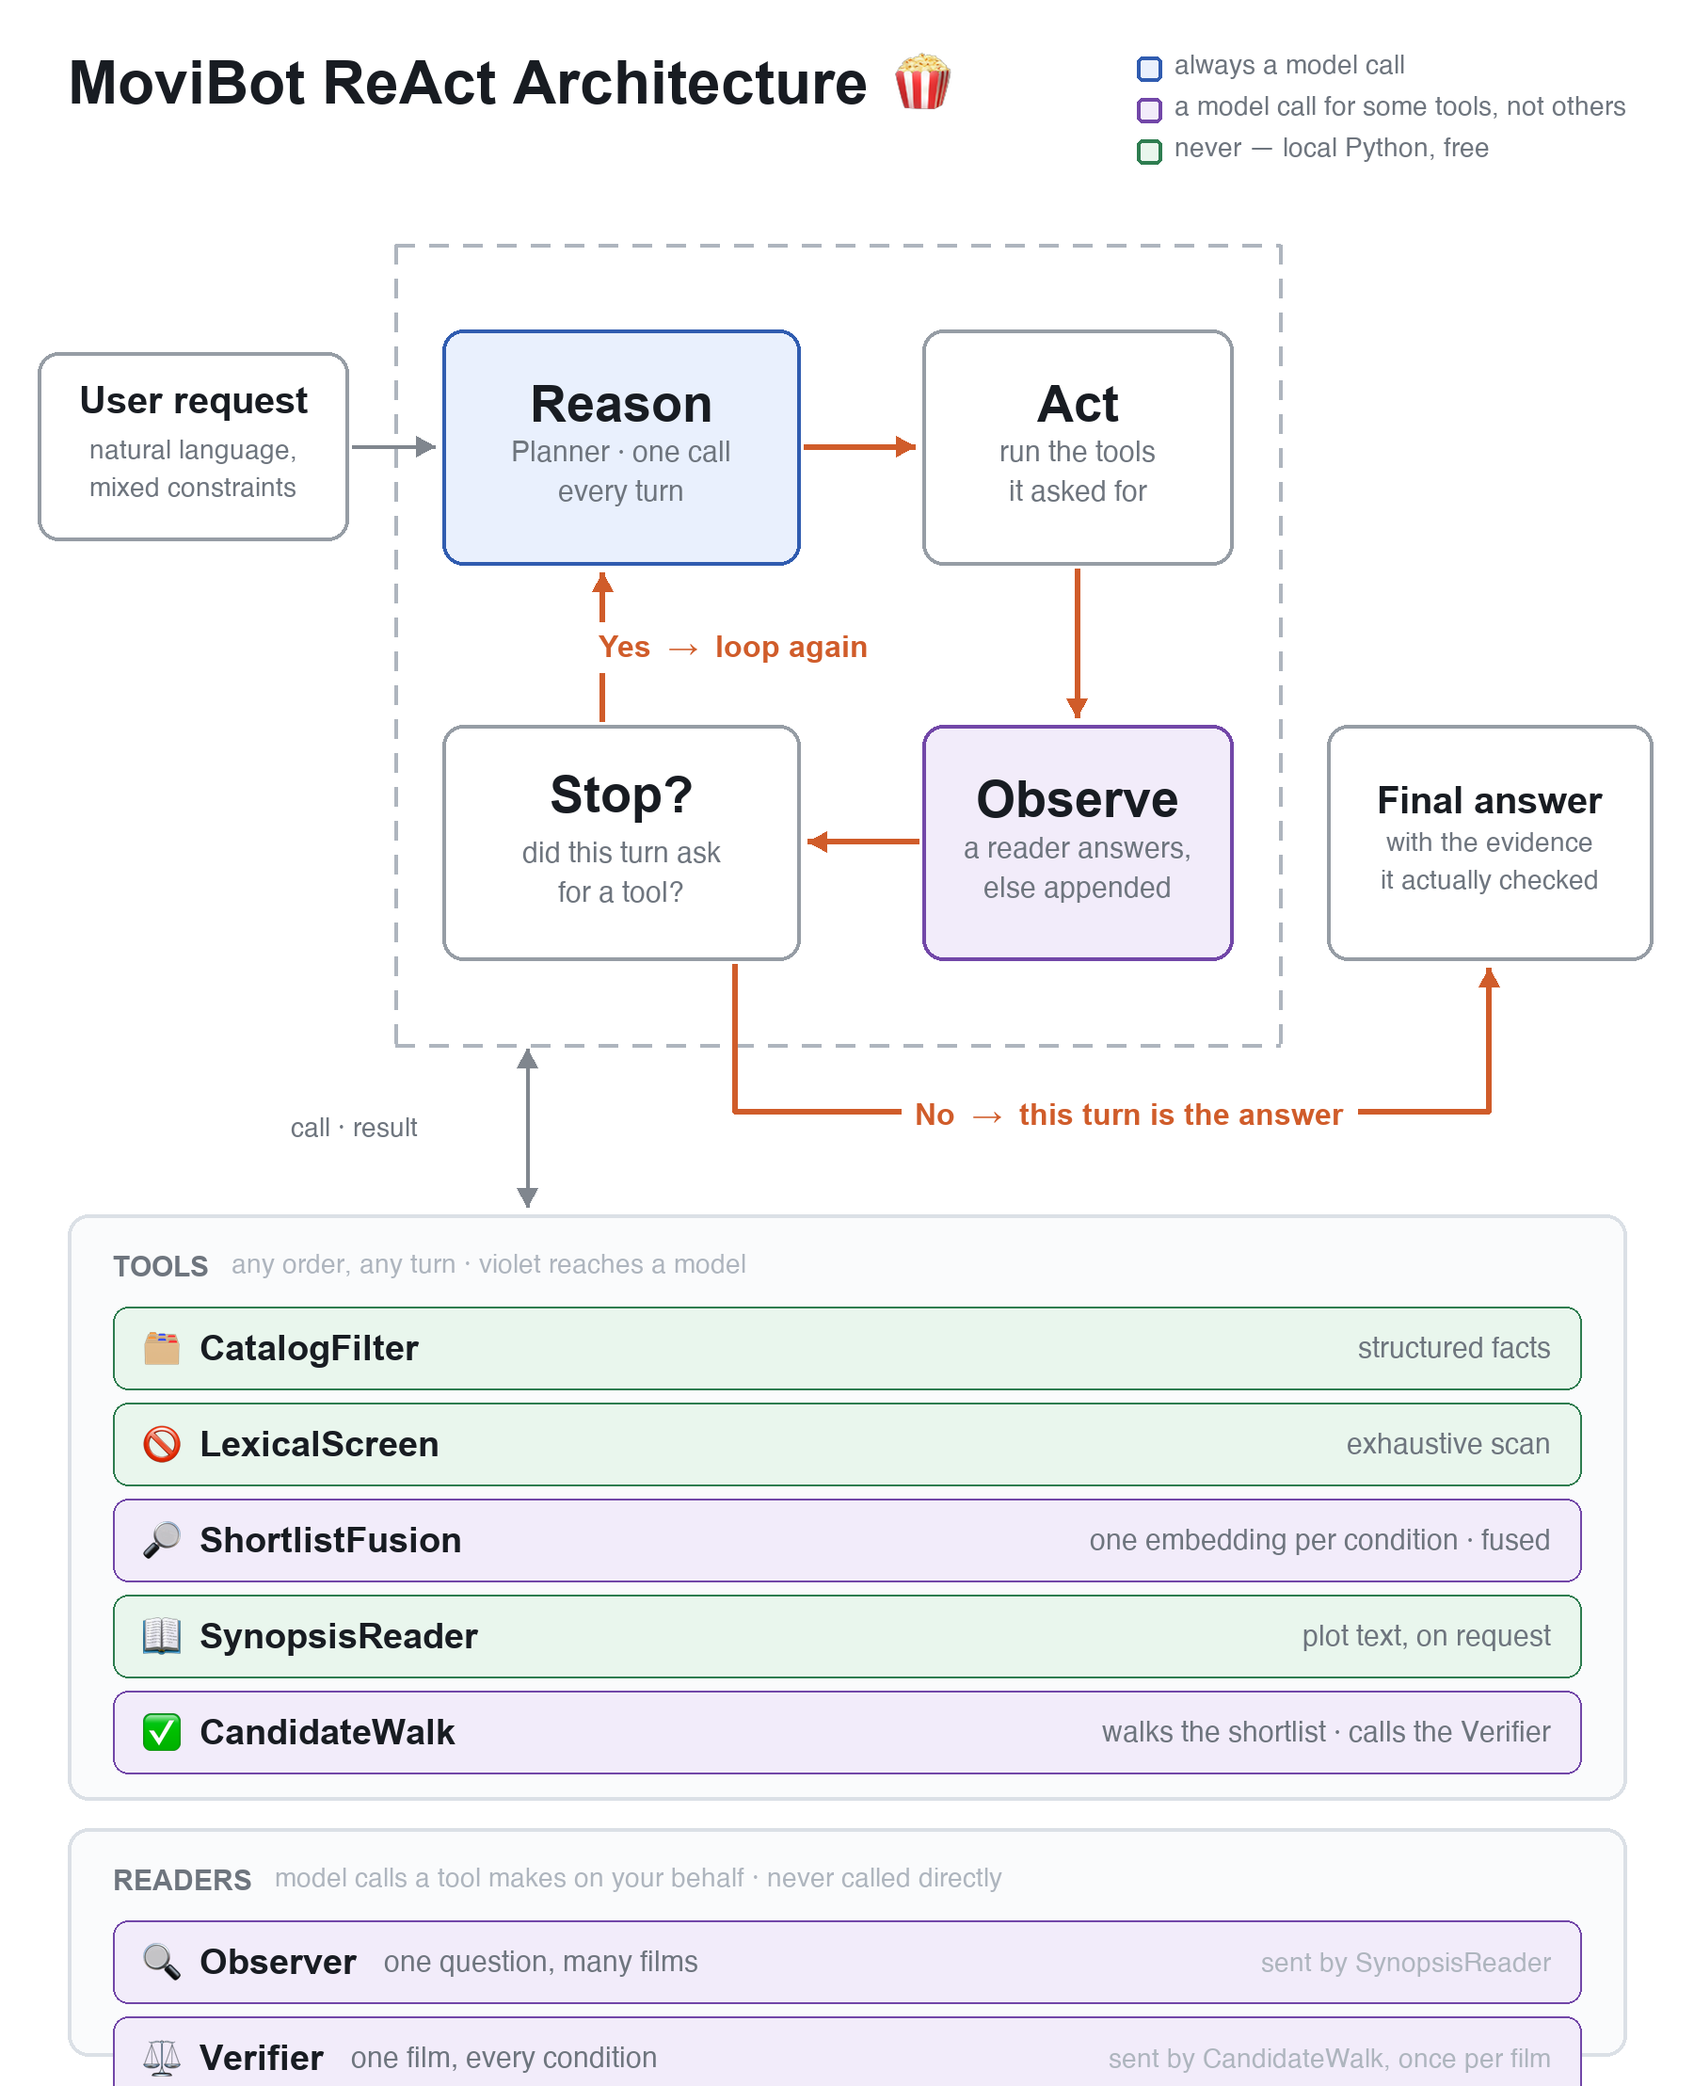
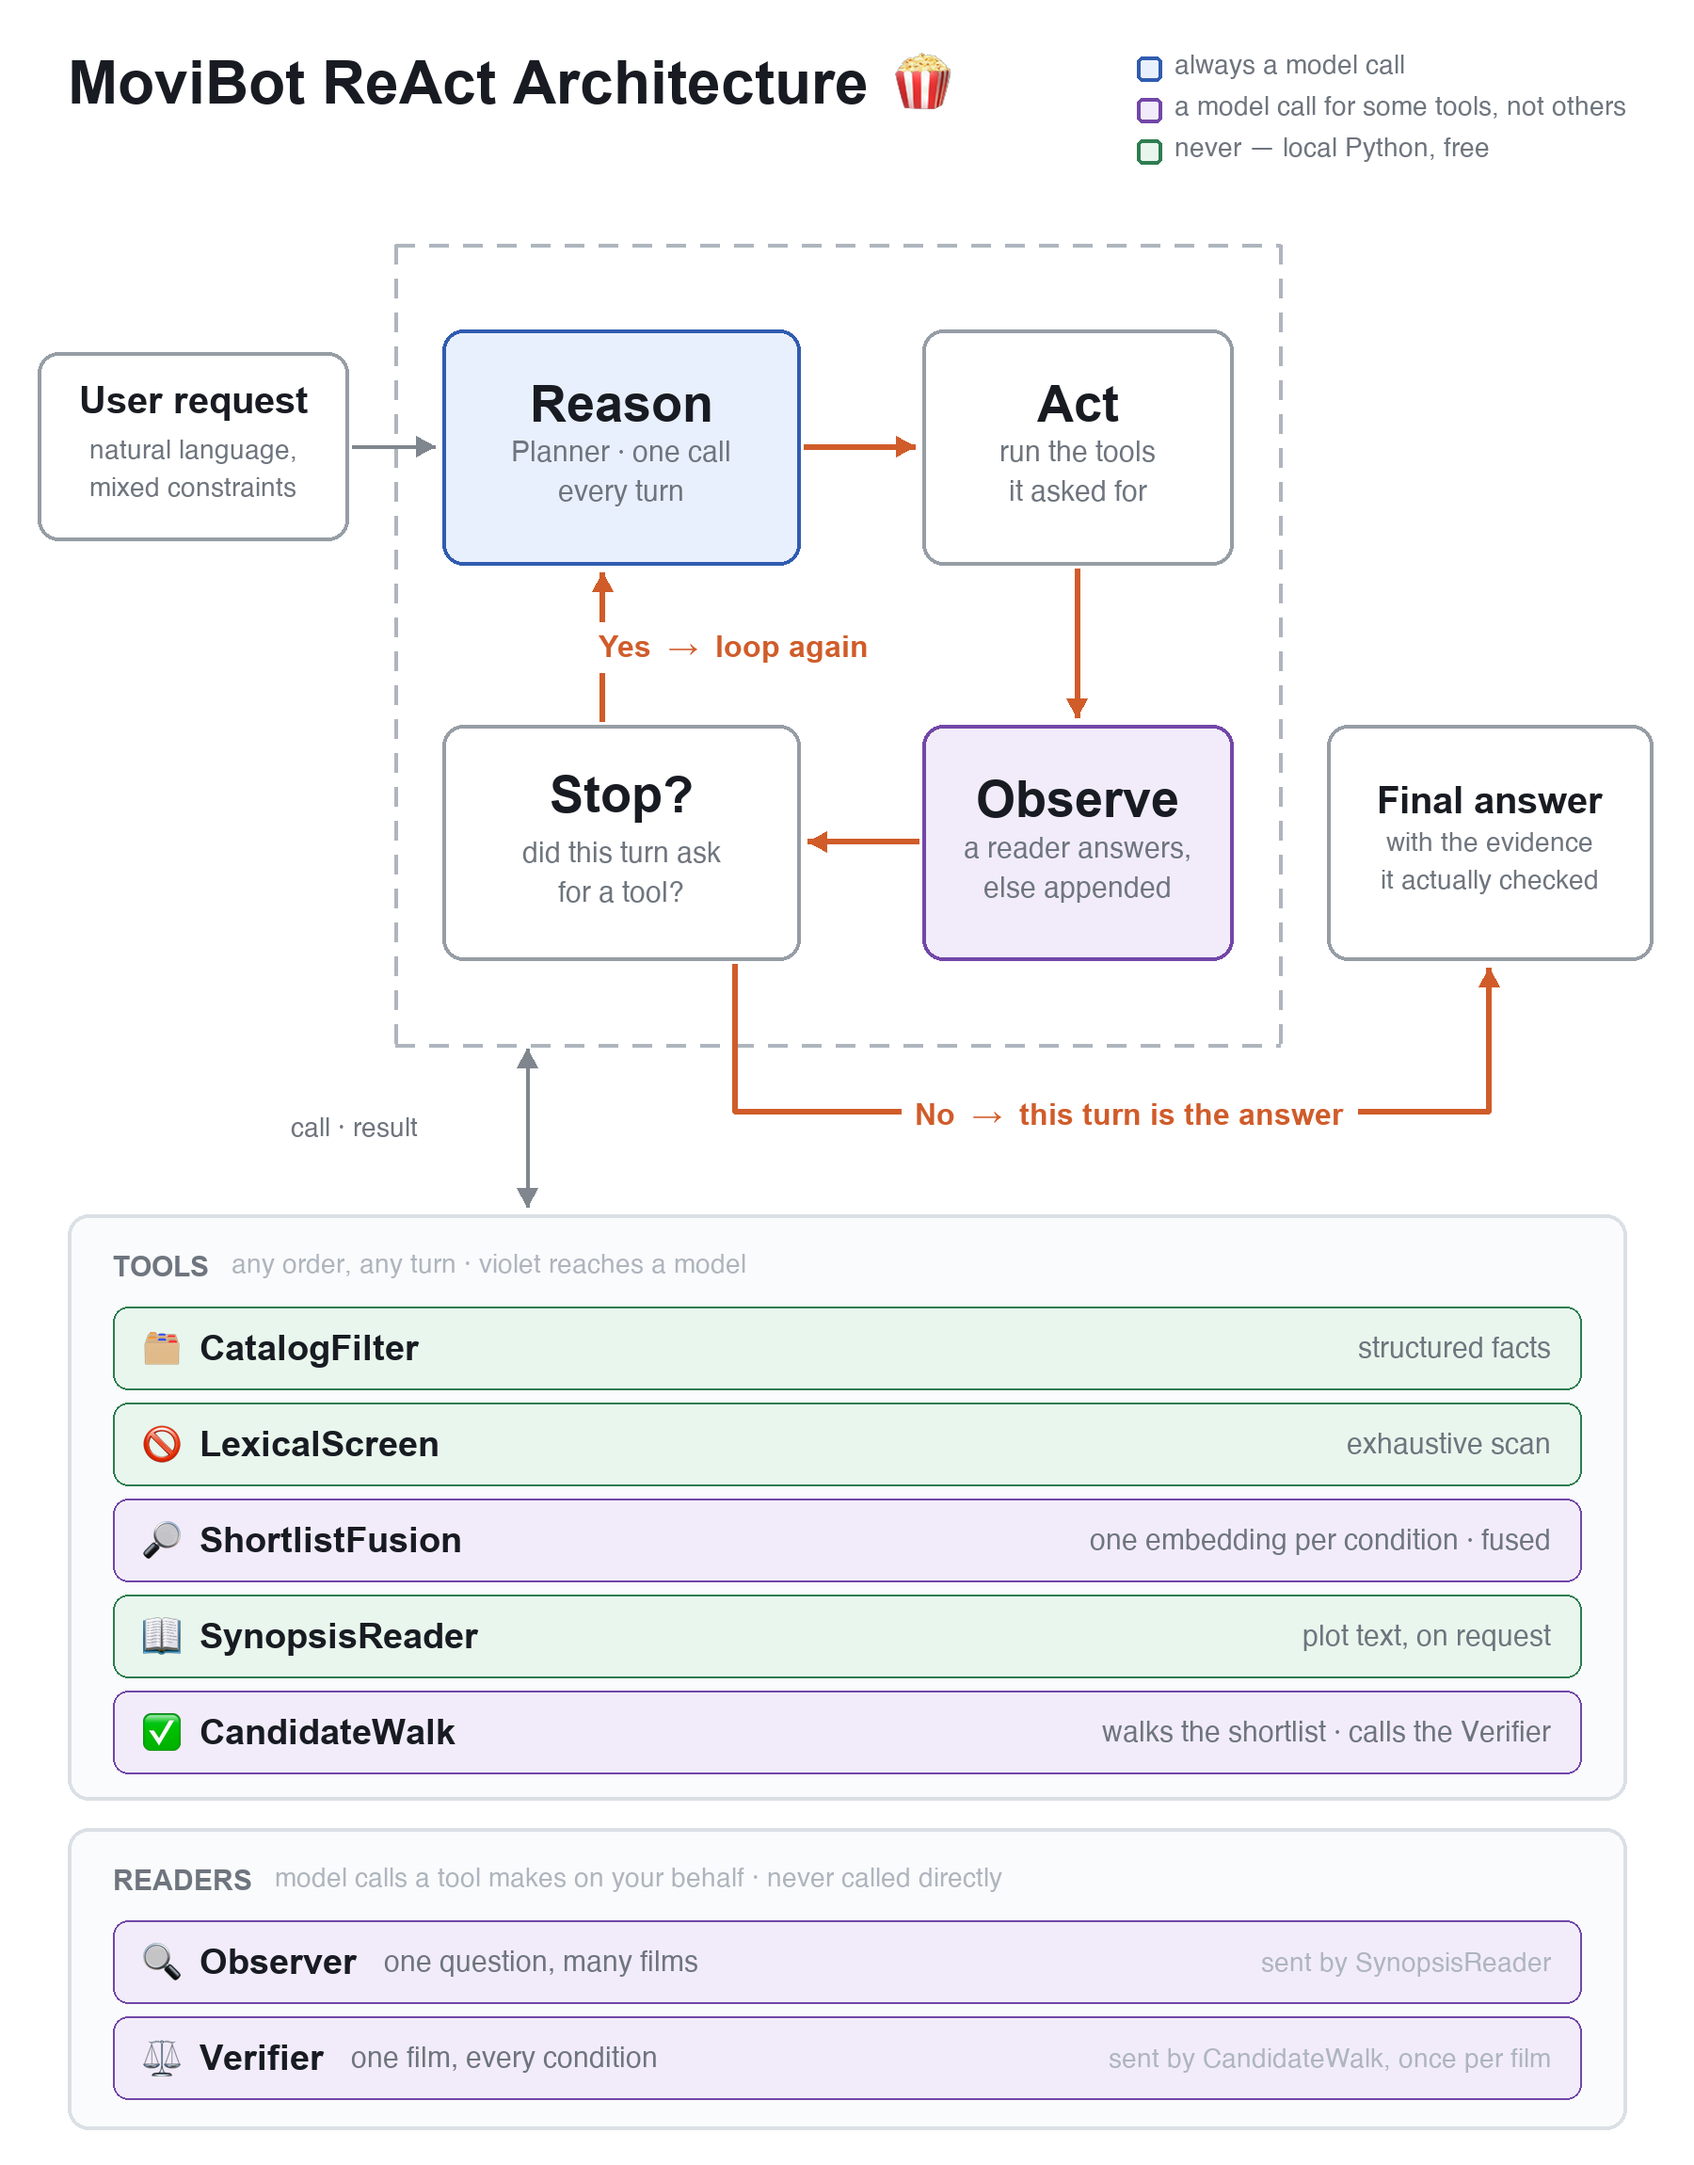
Stop the diagram clipping the Verifier
The readers panel ran to y=1115 inside a 1108-tall canvas and a
1092-tall panel, so the row was cut off at the bottom edge -- the one
box a reader most needs to see after being told the Verifier is not a
tool.

diff --git a/scripts/generate_architecture_diagram.py b/scripts/generate_architecture_diagram.py
@@ -57,7 +57,7 @@ OUTPUT_PATH = os.path.join(_ROOT, "assets", "architecture.png")
 # actually gets. SS only buys resampling quality: the image is drawn SS times
 # larger and shrunk back down at save time, so curves and small type stay clean
 # on a retina display and survive the browser's own scaling.
-WIDTH, HEIGHT = 900, 1108
+WIDTH, HEIGHT = 900, 1150
 SS = 2
 
 BG = (255, 255, 255)
@@ -345,7 +345,7 @@ def main() -> None:
     # SynopsisReader sends the Observer; CandidateWalk sends the Verifier, once
     # per film. Naming them here is the difference between five tools and five
     # tools plus two readers, which is what the trace actually shows.
-    rpanel = (36, 971, 864, 1092)
+    rpanel = (36, 971, 864, 1131)
     draw.rounded_rectangle(_st(rpanel), radius=_s(11), fill=PANEL_FILL,
                            outline=PANEL_LINE, width=_s(2))
     _text(draw, (60, 990), "READERS", MUTED, 15, bold=True)
